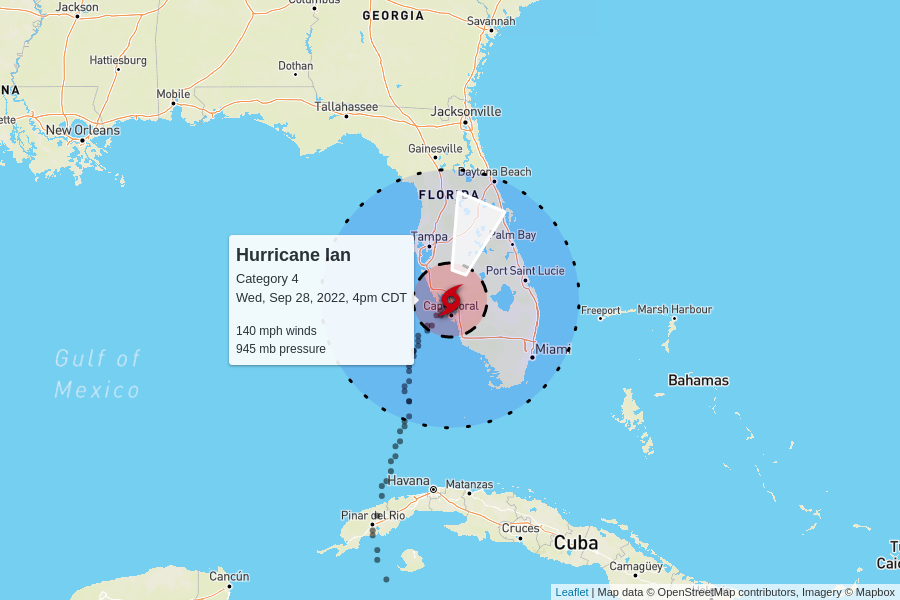
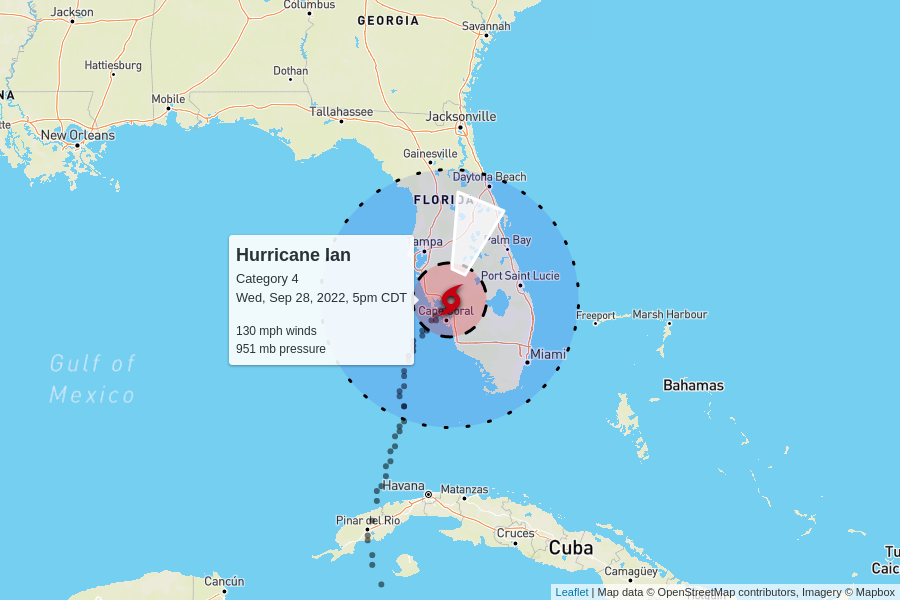
automatic update

diff --git a/docs/index.html b/docs/index.html
@@ -100,7 +100,7 @@
         <td colspan="6" class="storm category-4" >
           <h2>
             Hurricane Ian - Category 4
-            <p class="updated">last updated <span data-time>2022-09-28T21:00:00.000Z</span></p>
+            <p class="updated">last updated <span data-time>2022-09-28T22:00:00.000Z</span></p>
           </h2>
         </td>
       </tr>
@@ -115,8 +115,8 @@
       </tr>
       <tr>
         <td class="spacer"></td>
-        <td>140 mph</td>
-        <td>945 mb</td>
+        <td>130 mph</td>
+        <td>951 mb</td>
         <td>
           8 mph to the north-northeast
           <br/>
